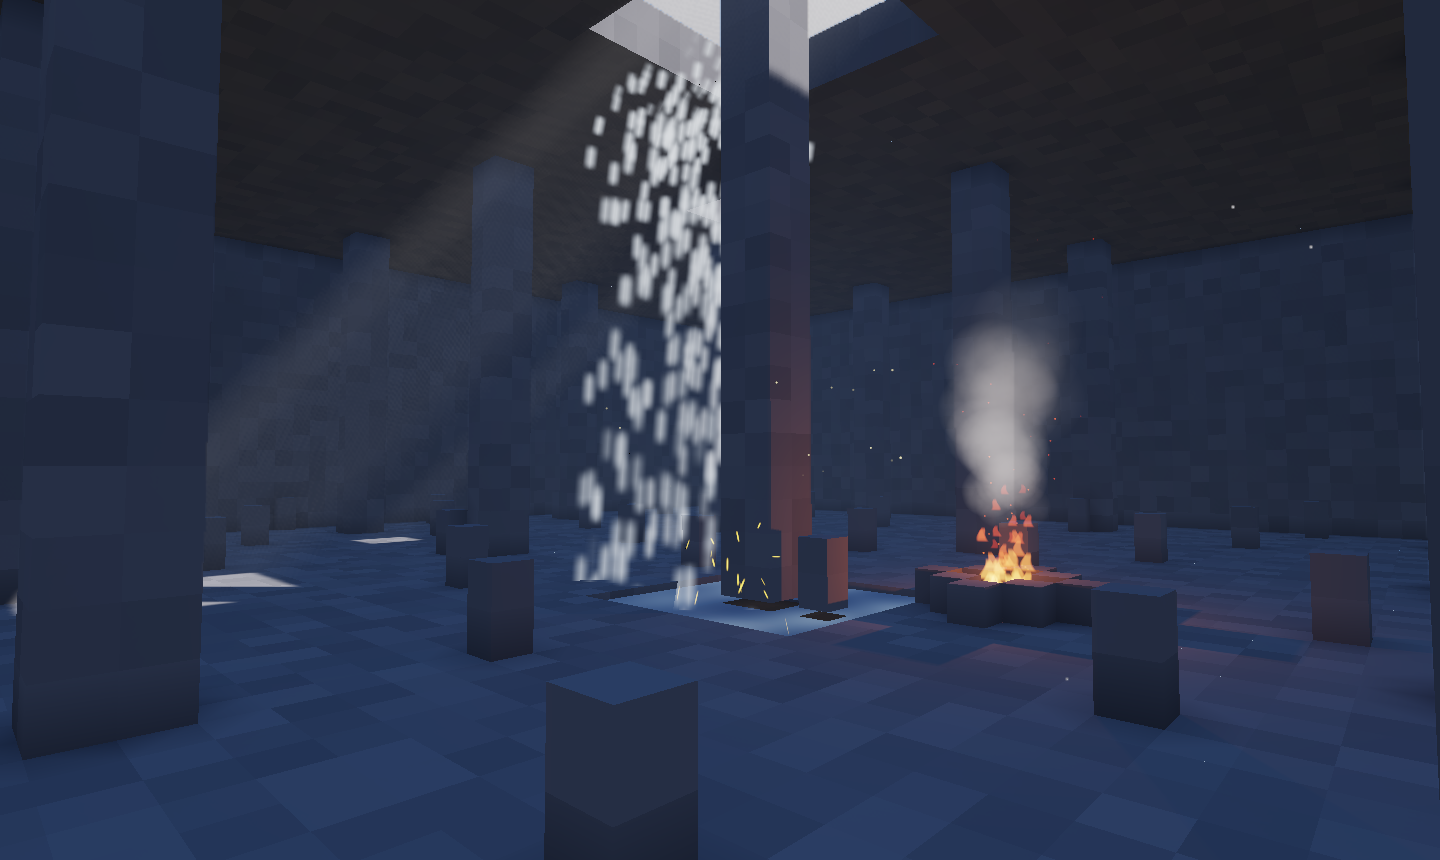
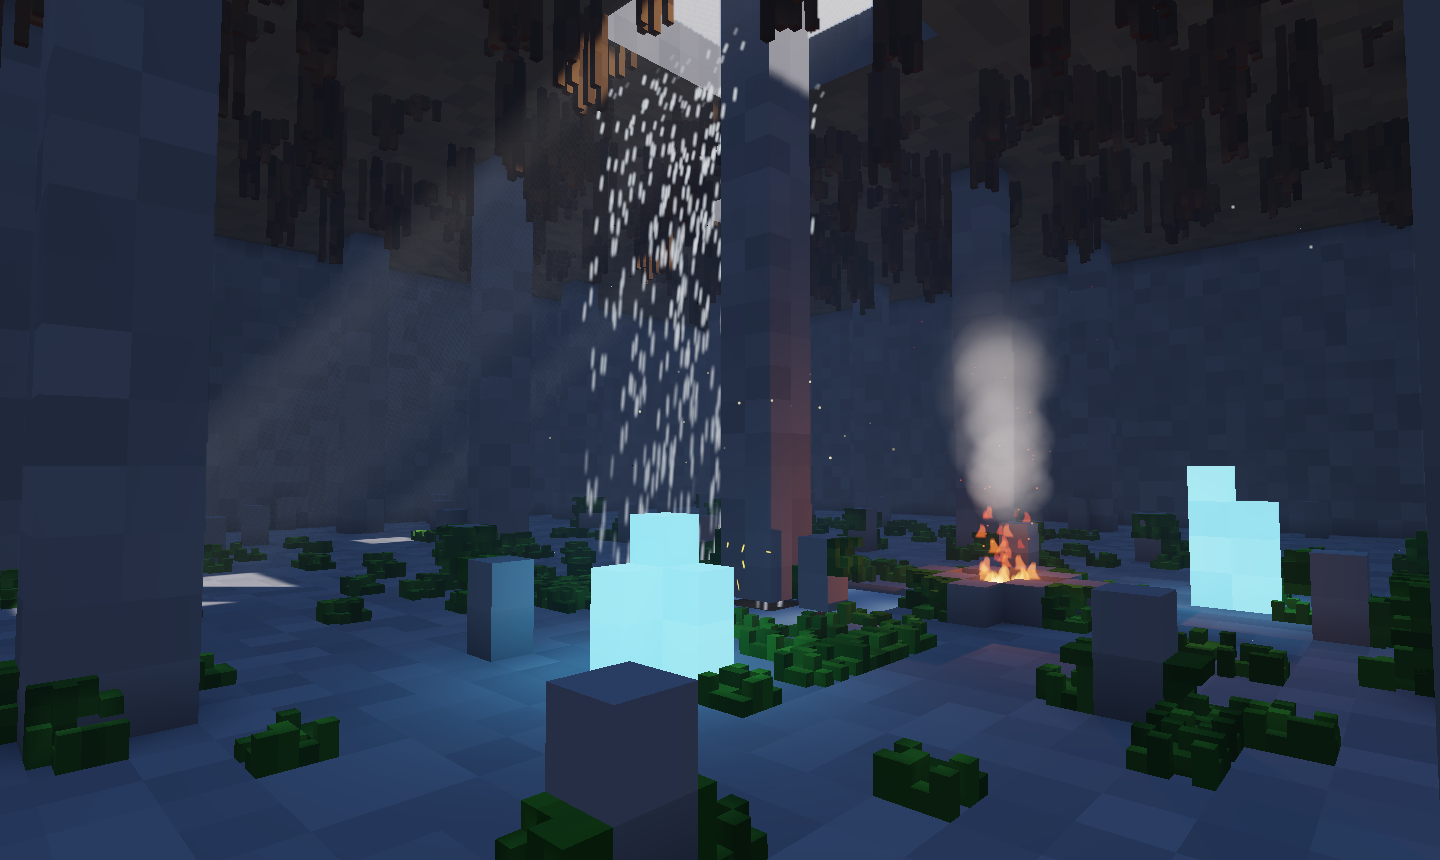
Fase K (parte 2): efectos de material con nodos y cubitos finos
Claude-Session: https://claude.ai/code/session_0188fnktJDozrhkGf8hAAXJr

diff --git a/theme/version.js b/theme/version.js
@@ -1,2 +1,2 @@
 // Lo escribe herramientas/capturas.py con `foxy-engine --version`.
-window.FOXY_VERSION = "0.0.1-PR42";
+window.FOXY_VERSION = "0.0.1-PR44";

diff --git a/herramientas/capturas.py b/herramientas/capturas.py
@@ -199,6 +199,8 @@ LISTA: dict[str, str] = {
     "ambiente-acuarela": f"--ancho 720 --alto 430 {ISLA} --hora 15 --ambiente acuarela",
     "ambiente-pixel": f"--ancho 720 --alto 430 {ISLA} --hora 15 --ambiente pixel",
     "ambiente-ninguno": f"--ancho 720 --alto 430 {ISLA} --hora 15",
+    "efecto-material": f"{ED} --pestana efecto",
+    "panel-efecto": "@recorte efecto-material 270,170,1170,690",
     # Marca
     "marca-splash": f"{JUEGO} --splash",
     "marca-carga-editor": f"{JUEGO} --editor --splash",

diff --git a/src/guia/efectos-de-material.md b/src/guia/efectos-de-material.md
@@ -1,0 +1,137 @@
+# Efectos de material
+
+Un efecto cambia cómo se ve un material mientras se juega: su color, cuánta
+luz da, lo metálico y lo pulido que es. Puede moverse con el tiempo, cambiar
+de un sitio a otro o depender de hacia dónde mira la cara. Se hace con
+**nodos**, como la lógica del juego, y quien sepa programar puede escribirlo
+en **código**.
+
+Funciona en los cubitos y en los objetos hechos con ese material, con el
+dibujante nuevo (el de serie) y con el clásico.
+
+![Una cueva con cristales que laten, musgo y raíces](../imagenes/capturas/cueva-efectos.png)
+
+## Empezar un efecto
+
+1. Abre la pestaña **Materiales** y elige el material.
+2. En la sección **Efecto**, pulsa una plantilla para empezar:
+
+   | Plantilla | Qué hace |
+   |---|---|
+   | **Lava** | Manchas de rojo oscuro a naranja que se mueven y brillan |
+   | **Luz que late** | El material se enciende y se apaga despacio |
+   | **Rayas** | Rayas blancas que suben por el material |
+   | **Destellos** | Puntitos que brillan y cambian |
+
+   O **Vacío** para hacerlo desde cero.
+3. Se abre la ventana del efecto. Cambia lo que quieras y pulsa
+   **Guardar y aplicar** para verlo en el mundo.
+
+Más tarde, **Editar efecto…** vuelve a abrir la ventana y **Quitar** lo
+borra.
+
+![La ventana del efecto con la plantilla Lava](../imagenes/capturas/panel-efecto.png)
+
+## La ventana del efecto
+
+- **El lienzo**: los nodos y sus cables. Arrastra un nodo por su cabecera
+  para moverlo y el fondo para moverlo todo. Para unir dos nodos, tira del
+  **círculo naranja** de la derecha de uno hasta un círculo de la izquierda
+  de otro. Un clic en un círculo de entrada con cable lo suelta. La **x**
+  quita el nodo.
+- **Vista previa**: un trozo de 2 × 2 m del material con el efecto,
+  moviéndose. Se ve al momento, sin aplicar.
+- **Listo** o **Hay un error**: si el efecto tiene un error, el material se
+  ve sin efecto hasta que lo arregles. Nunca rompe el juego.
+
+El nodo **Material** es el final: lo que le llega es lo que se pinta. Lo que
+no tenga cable se queda como en el material.
+
+| Entrada de Material | Qué cambia |
+|---|---|
+| **Color** | El color de cada punto |
+| **Luz** | La luz propia: 0 no brilla; 1 brilla mucho |
+| **Metálico** | De 0 (nada) a 1 (metal) |
+| **Pulido** | De 0 (mate) a 1 (espejo) |
+
+## Los nodos
+
+Todos los valores son tres números, como un color o un punto. Un número
+solo vale para los tres.
+
+| Nodo | Qué da |
+|---|---|
+| **Posición** | Dónde está el punto, en metros |
+| **Hacia dónde mira** | La dirección de la cara (arriba es Y = 1) |
+| **Tiempo** | Los segundos de juego: para que se mueva |
+| **Color del material** | El color (y la textura) que ya tiene el material |
+| **Sitio en la cara** | Dónde está el punto dentro de su cara, de 0 a 1 |
+| **Número**, **Color** | Un valor fijo |
+| **Sumar**, **Restar**, **Multiplicar** | Cuentas. Multiplicar sirve para hacer algo más grande, más rápido o más oscuro |
+| **Mezclar** | De A (con 0) a B (con 1), según **Cuánto** |
+| **Onda** | Sube y baja suave entre 0 y 1, una vez por cada 1 que avanza |
+| **Repetir** | Lo de después de la coma (2,3 da 0,3): sirve para hacer rayas |
+| **Corte** | 0 por debajo del borde y 1 por encima |
+| **Ruido** | Manchas suaves entre 0 y 1, del **Tamaño** que digas |
+| **Coger X**, **Coger Y**, **Coger Z** | Uno de los tres números |
+| **Juntar** | Junta tres números en uno |
+
+Por ejemplo, la **Luz que late** es: Tiempo × 0,5 → Onda → Luz del
+material. Cambia el 0,5 para que lata más deprisa o más despacio.
+
+## En código
+
+La pestaña **Código** enseña el mismo efecto escrito en WGSL, el idioma de
+la tarjeta gráfica. Con **Escribir a mano** se puede cambiar: desde
+entonces manda el código. Los nodos se guardan y **Volver a los nodos** los
+recupera.
+
+El código es el cuerpo de una función que recibe `e` y cambia `s`:
+
+| Recibe | Qué es |
+|---|---|
+| `e.pos` | Dónde está el punto (metros) |
+| `e.normal` | Hacia dónde mira la cara |
+| `e.tiempo` | Segundos de juego |
+| `e.color` | El color del material (lineal) |
+| `e.uv` | El sitio en la cara, de 0 a 1 |
+
+| Cambia | Qué es |
+|---|---|
+| `s.color` | El color |
+| `s.luz` | La luz propia |
+| `s.metal` | Lo metálico |
+| `s.pulido` | Lo pulido |
+
+Hay tres ayudas: `ef_ruido(punto, tamaño)`, `ef_onda(x)` y
+`ef_corte(x, borde)`. Por ejemplo:
+
+```wgsl
+    let manchas = ef_ruido(e.pos + vec3<f32>(0.0, e.tiempo * 0.2, 0.0), 0.8);
+    s.color = mix(e.color, vec3<f32>(0.1, 0.8, 1.0), manchas);
+    s.luz = manchas * 0.5;
+```
+
+Si hay un error, la ventana dice en qué línea.
+
+Un proyecto puede tener hasta 15 materiales con efecto.
+
+## Cubitos finos
+
+En la sección **Cubitos finos** del material:
+
+| Opción | Qué hace |
+|---|---|
+| **Cubito entero** | Lo de siempre |
+| **Musgo** | Una alfombra irregular de cubitos finos pegada al suelo, las paredes o el techo de al lado |
+| **Raíces** | Hilos de cubitos finos que cuelgan del techo; si hay más raíces debajo, siguen |
+
+Los cubitos finos son cuatro veces más pequeños que los normales. Se
+atraviesan, no hacen sombra y de lejos no se dibujan: así se puede llenar
+una cueva de musgo sin que el juego vaya más lento.
+
+## Véase también
+
+- [Materiales](materiales.md)
+- [Efectos y estilos](efectos.md)
+- [Materiales (referencia)](../referencia/materiales.md)

diff --git a/src/guia/materiales.md b/src/guia/materiales.md
@@ -65,6 +65,27 @@ se derrumba.
 En la paleta, un **punto amarillo** marca los materiales que brillan, una
 **raya** los metálicos y unos **cuadros** los transparentes.
 
+## Efecto
+
+Un efecto hace que el material **se mueva, brille o cambie**: lava que
+fluye, una luz que se enciende y se apaga, rayas que suben, puntitos que
+brillan. Se hace con nodos y se explica en
+[Efectos de material](efectos-de-material.md).
+
+## Cubitos finos
+
+Con **Musgo** o **Raíces**, el material deja de ser un cubito entero y se
+dibuja con cubitos cuatro veces más pequeños pegados a lo que tiene
+alrededor:
+
+- **Musgo**: pinta el material junto al suelo, una pared o el techo y crece
+  una alfombra irregular pegada a ellos.
+- **Raíces**: pinta el material bajo un techo y cuelgan hilos finos. Si
+  pintas varios uno debajo de otro, los hilos siguen hacia abajo.
+
+Se atraviesan, no hacen sombra y de lejos no se dibujan, así que apenas
+cuestan. Ver [Efectos de material](efectos-de-material.md#cubitos-finos).
+
 ## Volver atrás y borrar
 
 - **Como venía**: un material del motor vuelve a como viene; uno propio

diff --git a/src/apendices/historial.md b/src/apendices/historial.md
@@ -18,6 +18,10 @@ del motor con el número del último cambio (*pull request*) incorporado.
   **Crear → Efecto**.
 - Componente **En la mano**: lo que llevas en primera persona no atraviesa
   las paredes.
+- **Efectos de material** con nodos (o código WGSL): lava, luz que late,
+  rayas, destellos... Ver [Efectos de material](../guia/efectos-de-material.md).
+- **Cubitos finos**: musgo y raíces de cubitos cuatro veces más pequeños,
+  que no cuestan de lejos.
 
 ## Demo técnica
 

diff --git a/src/referencia/materiales.md b/src/referencia/materiales.md
@@ -58,3 +58,5 @@ cada valor va dentro de `Some(...)`:
 | `atravesable` | `true` / `false` | No choca al caminar |
 | `golpes` | número | Golpes que aguanta (0 = no se rompe) |
 | `peso` | kg/m³ | Cuánto pesa |
+| `detalle` | `Musgo` o `Raices` | Se dibuja con cubitos finos (ver [Cubitos finos](../guia/efectos-de-material.md#cubitos-finos)) |
+| `efecto` | nodos o código | Su efecto (ver [Efectos de material](../guia/efectos-de-material.md)) |

diff --git a/src/SUMMARY.md b/src/SUMMARY.md
@@ -72,6 +72,7 @@
     - [Crear objetos propios](guia/creador.md)
     - [Importar modelos](guia/importar.md)
     - [Materiales](guia/materiales.md)
+        - [Efectos de material](guia/efectos-de-material.md)
     - [La vida del mundo](guia/vida.md)
 - [Objetos y componentes](guia/entidades.md)
     - [Objetos libres y jerarquía](guia/objetos-libres.md)

diff --git a/src/guia/efectos.md b/src/guia/efectos.md
@@ -107,3 +107,4 @@ Las capturas aceptan `--ambiente` y `--estilo`. Ver
 - [Gráficos: luz, sombras y atmósfera](graficos.md)
 - [Partículas](../referencia/componentes/particulas.md)
 - [En la mano](../referencia/componentes/mano.md)
+- [Efectos de material](efectos-de-material.md)
